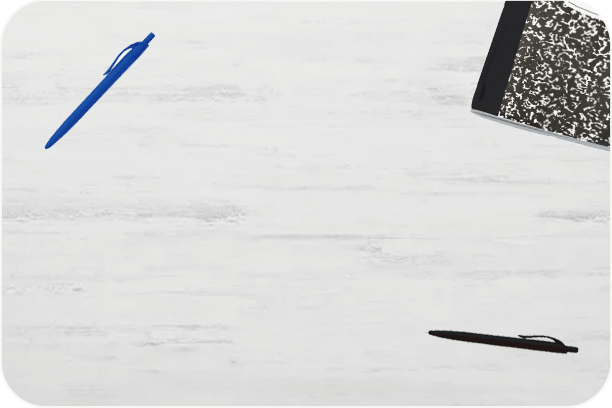
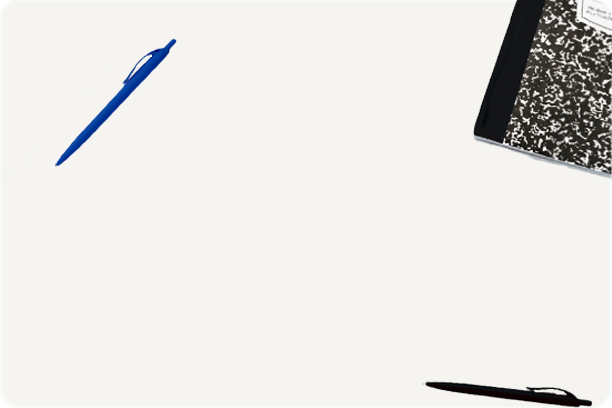
more styling fixes

diff --git a/public/style.css b/public/style.css
@@ -1,12 +1,16 @@
 body {
   font-family: sans-serif;
-  background: url(./background-3181283_1920.jpg);
+  background: url(./blurrBg.jpeg);
   background-attachment: scroll, local;  
   margin: auto;
   height: 100vh;
   width: 100vw; 
   background-attachment: fixed;
   overflow-y: scroll;
+  background-size: cover;
+
+  background-repeat: no-repeat;
+
   /* max-height: auto; */
 }
 
